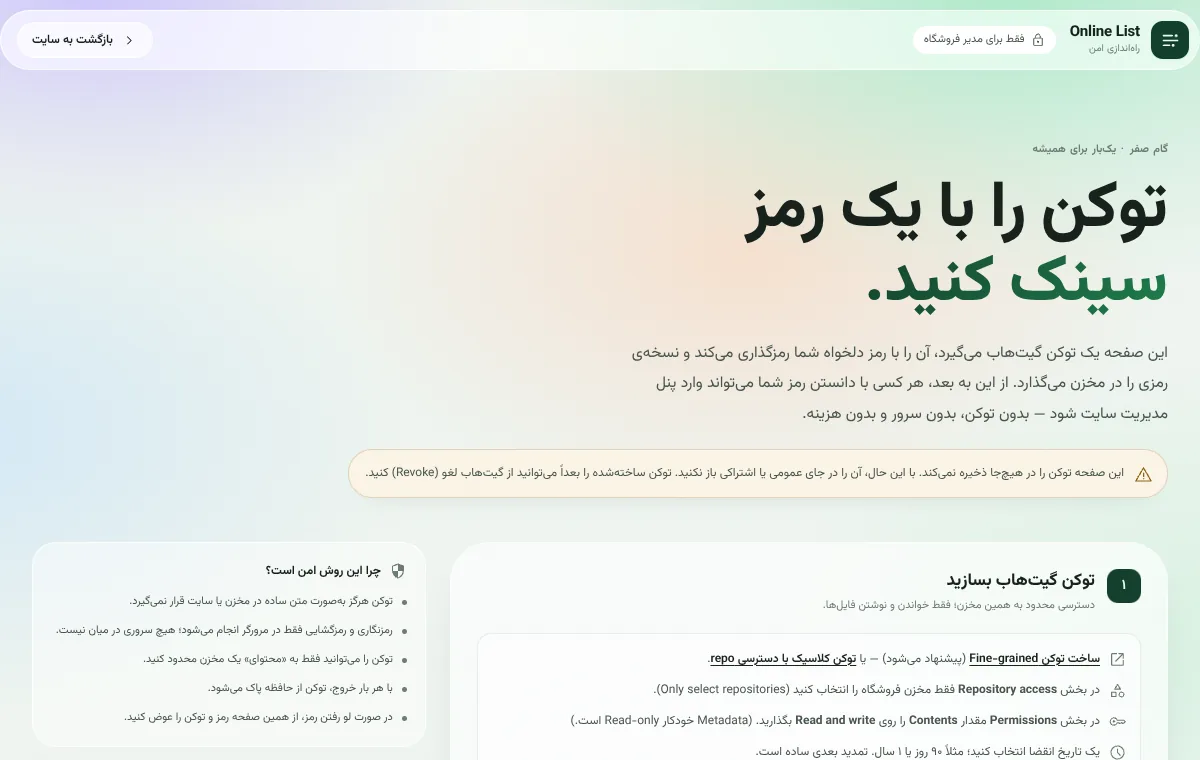
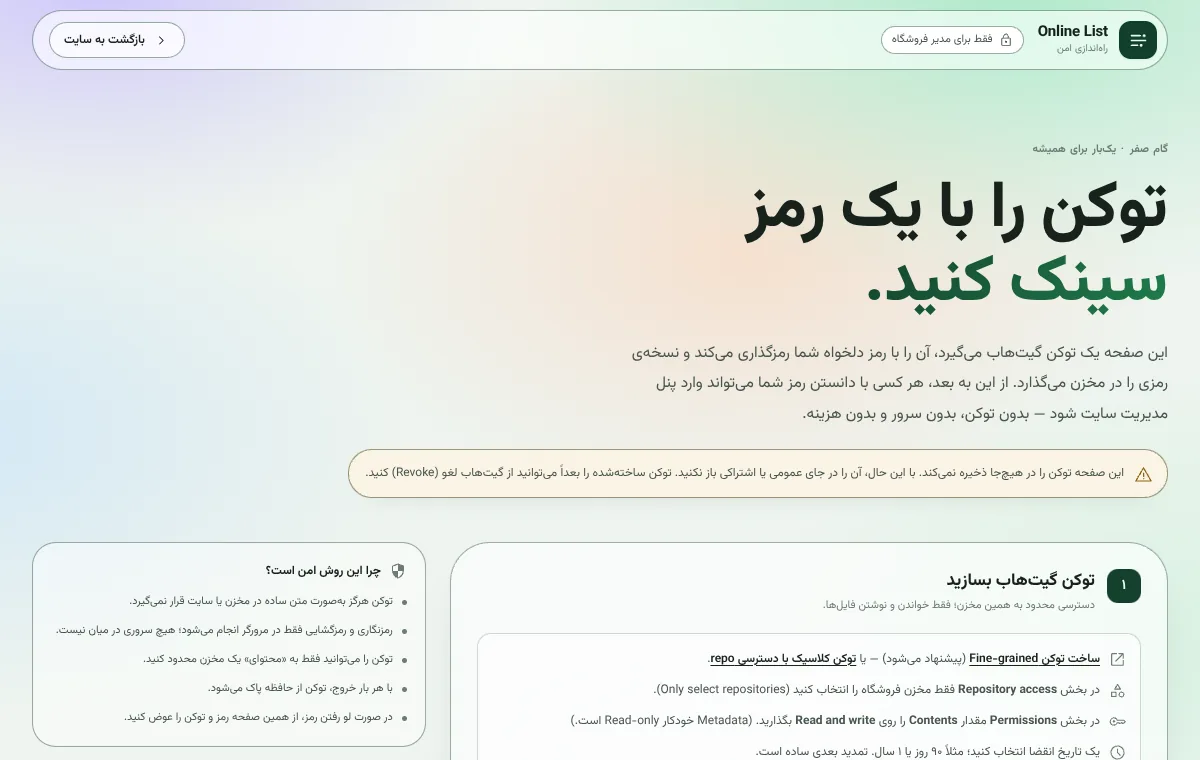
خط سبز دور همهٔ کادرها + رفع اشکالهای ظاهری
- tokens.css: رنگ خطها از سفید به سبز تغییر کرد (روشن: سبز تیره، تاریک: نعنایی)
  --outline / --outline-strong / --hairline / --glass-line / --glass-card-border
- نوار بالای شیشهای دقیقاً به اندازهٔ گاتر فاصله گرفت؛ قبلاً در ۱۲۰۰px به لبهٔ صفحه میچسبید
- نور پسزمینه به یک توکن (--page-glow) منتقل شد و نوار بالا هم همان نور را میکشد:
  دیگر کارتها از پشت نوار دیده نمیشوند و درز افقی زیر نوار حذف شد
- جستجوی هدر: راهنمای «/» دوباره جا گرفت (پدینگ سمت چپ ۷۶px)
- جستجوی پنل مدیریت هم شیشهای شد (قبلاً تنها کادر سفید اپک بود)
- نوار «اعتماد» بهخاطر استفادهٔ --glass-line بهعنوان پسزمینه سبزِ توپر شده بود؛ اصلاح شد
- ۲۰ تصویر راهنمای مدیر با خطوط جدید بازسازی شد

Changed region(s): [[0.74, 0.0, 1.0, 0.0908], [0.0, 0.0, 0.1233, 0.0908]]

diff --git a/assets/css/tokens.css b/assets/css/tokens.css
@@ -34,9 +34,9 @@
   --text-inverse: #eafaf0;
 
   /* Lines */
-  --outline: rgba(255, 255, 255, 0.76);
-  --outline-strong: rgba(255, 255, 255, 0.98);
-  --hairline: rgba(23, 33, 28, 0.08);
+  --outline: rgba(18, 63, 44, 0.42);
+  --outline-strong: rgba(18, 63, 44, 0.5);
+  --hairline: rgba(18, 63, 44, 0.2);
 
   /* Primary — deep forest ink: still serious, but alive next to the ivory */
   --primary: #123f2c;
@@ -153,9 +153,9 @@
   --text-3: #7b8c83;
   --text-inverse: #0b1a13;
 
-  --outline: rgba(255, 255, 255, 0.12);
-  --outline-strong: rgba(255, 255, 255, 0.24);
-  --hairline: rgba(255, 255, 255, 0.08);
+  --outline: rgba(159, 232, 193, 0.36);
+  --outline-strong: rgba(159, 232, 193, 0.5);
+  --hairline: rgba(159, 232, 193, 0.22);
 
   --primary: #9fe8c1;
   --on-primary: #06231a;
@@ -210,9 +210,9 @@
     --text-3: #7b8c83;
     --text-inverse: #0b1a13;
 
-    --outline: rgba(255, 255, 255, 0.12);
-    --outline-strong: rgba(255, 255, 255, 0.24);
-    --hairline: rgba(255, 255, 255, 0.08);
+    --outline: rgba(159, 232, 193, 0.36);
+    --outline-strong: rgba(159, 232, 193, 0.5);
+    --hairline: rgba(159, 232, 193, 0.22);
 
     --primary: #9fe8c1;
     --on-primary: #06231a;
@@ -265,7 +265,7 @@
   --aurora-sky: rgba(174, 217, 255, 0.72);
   --aurora-mint-2: rgba(184, 239, 207, 0.78);
 
-  --glass-line: rgba(255, 255, 255, 0.72);
+  --glass-line: rgba(18, 63, 44, 0.42);
   --glass-blur: 22px;
   --glass-shadow: 0 22px 44px -32px rgba(20, 50, 35, 0.5);
   --glass-shadow-lg: 0 40px 80px -44px rgba(20, 50, 35, 0.55);
@@ -274,7 +274,7 @@
   --glass-panel: rgba(255, 255, 255, 0.66);
   --glass-card: rgba(255, 255, 255, 0.78);
   --glass-card-hover: rgba(255, 255, 255, 0.92);
-  --glass-card-border: #ffffff;
+  --glass-card-border: rgba(18, 63, 44, 0.62);
   --glass-chip: rgba(255, 255, 255, 0.62);
   --glass-chip-hover: #ffffff;
   --glass-field: rgba(255, 255, 255, 0.72);
@@ -287,6 +287,13 @@
   --glass-gloss: rgba(255, 255, 255, 0.62);
   --page-mesh-veil: rgba(238, 244, 239, 0.34);
   --page-mesh-veil-end: rgba(238, 244, 239, 0.52);
+  --page-glow:
+    linear-gradient(180deg, transparent 0%, var(--page-mesh-veil) 30%, var(--page-mesh-veil-end) 100%),
+    radial-gradient(58% 54% at 84% 2%, var(--aurora-mint), transparent 68%),
+    radial-gradient(46% 46% at 8% 0%, var(--aurora-lilac), transparent 70%),
+    radial-gradient(48% 46% at 62% 34%, var(--aurora-peach), transparent 72%),
+    radial-gradient(52% 50% at -4% 58%, var(--aurora-sky), transparent 72%),
+    radial-gradient(56% 52% at 104% 86%, var(--aurora-mint-2), transparent 72%);
 }
 
 [data-theme="dark"] {
@@ -296,7 +303,7 @@
   --aurora-sky: rgba(44, 92, 132, 0.26);
   --aurora-mint-2: rgba(36, 108, 80, 0.3);
 
-  --glass-line: rgba(255, 255, 255, 0.1);
+  --glass-line: rgba(159, 232, 193, 0.38);
   --glass-shadow: 0 22px 44px -30px rgba(0, 0, 0, 0.8);
   --glass-shadow-lg: 0 40px 80px -40px rgba(0, 0, 0, 0.9);
 
@@ -304,7 +311,7 @@
   --glass-panel: rgba(22, 38, 30, 0.62);
   --glass-card: rgba(30, 50, 40, 0.56);
   --glass-card-hover: rgba(34, 56, 45, 0.74);
-  --glass-card-border: rgba(255, 255, 255, 0.14);
+  --glass-card-border: rgba(159, 232, 193, 0.52);
   --glass-chip: rgba(255, 255, 255, 0.07);
   --glass-chip-hover: rgba(255, 255, 255, 0.13);
   --glass-field: rgba(255, 255, 255, 0.06);
@@ -317,6 +324,12 @@
   --glass-gloss: rgba(255, 255, 255, 0.08);
   --page-mesh-veil: rgba(8, 18, 13, 0.3);
   --page-mesh-veil-end: rgba(8, 18, 13, 0.62);
+  --page-glow:
+    linear-gradient(180deg, rgba(8, 18, 13, 0.06) 0%, rgba(8, 18, 13, 0.42) 28%, rgba(8, 18, 13, 0.78) 100%),
+    radial-gradient(46% 44% at 86% -8%, rgba(46, 148, 105, 0.5), transparent 64%),
+    radial-gradient(40% 40% at 0% -12%, rgba(96, 80, 168, 0.44), transparent 66%),
+    radial-gradient(44% 42% at 100% 78%, rgba(44, 126, 94, 0.34), transparent 68%),
+    radial-gradient(40% 40% at 4% 92%, rgba(38, 96, 120, 0.28), transparent 70%);
 }
 
 @media (prefers-color-scheme: dark) {
@@ -327,7 +340,7 @@
     --aurora-sky: rgba(44, 92, 132, 0.26);
     --aurora-mint-2: rgba(36, 108, 80, 0.3);
 
-    --glass-line: rgba(255, 255, 255, 0.1);
+    --glass-line: rgba(159, 232, 193, 0.38);
     --glass-shadow: 0 22px 44px -30px rgba(0, 0, 0, 0.8);
     --glass-shadow-lg: 0 40px 80px -40px rgba(0, 0, 0, 0.9);
 
@@ -335,7 +348,7 @@
     --glass-panel: rgba(22, 38, 30, 0.62);
     --glass-card: rgba(30, 50, 40, 0.56);
     --glass-card-hover: rgba(34, 56, 45, 0.74);
-    --glass-card-border: rgba(255, 255, 255, 0.14);
+    --glass-card-border: rgba(159, 232, 193, 0.52);
     --glass-chip: rgba(255, 255, 255, 0.07);
     --glass-chip-hover: rgba(255, 255, 255, 0.13);
     --glass-field: rgba(255, 255, 255, 0.06);
@@ -348,5 +361,17 @@
     --glass-gloss: rgba(255, 255, 255, 0.08);
     --page-mesh-veil: rgba(8, 18, 13, 0.3);
     --page-mesh-veil-end: rgba(8, 18, 13, 0.62);
+    --page-glow:
+      linear-gradient(180deg, rgba(8, 18, 13, 0.06) 0%, rgba(8, 18, 13, 0.42) 28%, rgba(8, 18, 13, 0.78) 100%),
+    radial-gradient(46% 44% at 86% -8%, rgba(46, 148, 105, 0.5), transparent 64%),
+    radial-gradient(40% 40% at 0% -12%, rgba(96, 80, 168, 0.44), transparent 66%),
+    radial-gradient(44% 42% at 100% 78%, rgba(44, 126, 94, 0.34), transparent 68%),
+    radial-gradient(40% 40% at 4% 92%, rgba(38, 96, 120, 0.28), transparent 70%);
+  --page-glow:
+    linear-gradient(180deg, rgba(8, 18, 13, 0.06) 0%, rgba(8, 18, 13, 0.42) 28%, rgba(8, 18, 13, 0.78) 100%),
+    radial-gradient(46% 44% at 86% -8%, rgba(46, 148, 105, 0.5), transparent 64%),
+    radial-gradient(40% 40% at 0% -12%, rgba(96, 80, 168, 0.44), transparent 66%),
+    radial-gradient(44% 42% at 100% 78%, rgba(44, 126, 94, 0.34), transparent 68%),
+    radial-gradient(40% 40% at 4% 92%, rgba(38, 96, 120, 0.28), transparent 70%);
   }
 }

diff --git a/assets/css/glass.css b/assets/css/glass.css
@@ -14,46 +14,22 @@
 body,
 .help-page,
 .setup-page {
-  background:
-    linear-gradient(180deg, transparent 0%, var(--page-mesh-veil) 30%, var(--page-mesh-veil-end) 100%),
-    radial-gradient(58% 54% at 84% 2%, var(--aurora-mint), transparent 68%),
-    radial-gradient(46% 46% at 8% 0%, var(--aurora-lilac), transparent 70%),
-    radial-gradient(48% 46% at 62% 34%, var(--aurora-peach), transparent 72%),
-    radial-gradient(52% 50% at -4% 58%, var(--aurora-sky), transparent 72%),
-    radial-gradient(56% 52% at 104% 86%, var(--aurora-mint-2), transparent 72%),
-    var(--bg);
+  background-color: var(--bg);
+  background-image: var(--page-glow);
   background-attachment: fixed;
   background-repeat: no-repeat;
   background-size: 100% 100%;
 }
-/* Dark keeps the colour only at the corners: a foggy middle made every
-   heading fight the background. */
-@media (prefers-color-scheme: dark) {
-  :root:not([data-theme="light"]) body,
-  :root:not([data-theme="light"]) .help-page,
-  :root:not([data-theme="light"]) .setup-page {
-  background:
-    linear-gradient(180deg, rgba(8, 18, 13, 0.06) 0%, rgba(8, 18, 13, 0.42) 28%, rgba(8, 18, 13, 0.78) 100%),
-    radial-gradient(46% 44% at 86% -8%, rgba(46, 148, 105, 0.5), transparent 64%),
-    radial-gradient(40% 40% at 0% -12%, rgba(96, 80, 168, 0.44), transparent 66%),
-    radial-gradient(44% 42% at 100% 78%, rgba(44, 126, 94, 0.34), transparent 68%),
-    radial-gradient(40% 40% at 4% 92%, rgba(38, 96, 120, 0.28), transparent 70%),
-    var(--bg);
-  background-attachment: fixed;
-  background-repeat: no-repeat;
-  background-size: 100% 100%;
-  }
-}
-[data-theme="dark"] body,
-[data-theme="dark"] .help-page,
-[data-theme="dark"] .setup-page {
-  background:
-    linear-gradient(180deg, rgba(8, 18, 13, 0.06) 0%, rgba(8, 18, 13, 0.42) 28%, rgba(8, 18, 13, 0.78) 100%),
-    radial-gradient(46% 44% at 86% -8%, rgba(46, 148, 105, 0.5), transparent 64%),
-    radial-gradient(40% 40% at 0% -12%, rgba(96, 80, 168, 0.44), transparent 66%),
-    radial-gradient(44% 42% at 100% 78%, rgba(44, 126, 94, 0.34), transparent 68%),
-    radial-gradient(40% 40% at 4% 92%, rgba(38, 96, 120, 0.28), transparent 70%),
-    var(--bg);
+
+/* The bar floats, but the strip around the pill has to hide what scrolls
+   under it. Instead of a translucent veil (which ghosted the cards) the bar
+   paints the very same viewport-anchored aurora, fully opaque — so it reads
+   as one continuous page and nothing shows through. */
+.appbar,
+.help-top,
+.setup-header {
+  background-color: var(--bg);
+  background-image: var(--page-glow);
   background-attachment: fixed;
   background-repeat: no-repeat;
   background-size: 100% 100%;
@@ -89,7 +65,10 @@ body,
 .appbar {
   height: auto;
   padding-block: 12px;
-  background: transparent;
+  /* The pill is a .container itself, so its own padding sits *inside* the
+     frame: at exactly 1200px wide the frame touched both screen edges.
+     Pad the bar instead, and the pill gets the same gutter as every card. */
+  padding-inline: var(--gutter);
   border: 0;
 }
 .appbar.is-stuck { border-bottom-color: transparent; box-shadow: none; }
@@ -126,7 +105,6 @@ body,
 @media (max-width: 760px) {
   .login-btn { padding-inline: 0; width: 38px; justify-content: center; }
 }
-
 /* ── Hero ────────────────────────────────────────────────────────────── */
 .hero__eyebrow {
   border: 1px solid var(--glass-line);
@@ -173,10 +151,13 @@ body,
 .update-card__stats { border-radius: var(--r-lg); }
 
 /* ── Trust strip ─────────────────────────────────────────────────────── */
+/* .trust paints its 1px gaps with the border colour, so using --glass-line
+   here turned the whole strip into a green slab. Give the gaps their own
+   faint tint and keep the frame green. */
 .trust {
   border-radius: var(--r-2xl);
-  border: 1px solid var(--glass-line);
-  background: var(--glass-line);
+  border: 1px solid var(--glass-card-border);
+  background: color-mix(in srgb, var(--glass-line) 34%, transparent);
   box-shadow: var(--glass-shadow);
 }
 .trust__item {
@@ -231,7 +212,8 @@ body,
   border-radius: var(--r-full);
   background-color: var(--glass-field);
   border: 1px solid var(--glass-line);
-  padding-inline: 46px 26px;
+  /* start = the magnifier, end = the «/» keyboard hint (44px + 30px wide). */
+  padding-inline: 46px 76px;
 }
 .search__input:focus {
   border-color: color-mix(in srgb, var(--ok) 40%, var(--glass-line));
@@ -470,6 +452,15 @@ dialog.sheet::backdrop {
 }
 .mp-badge, .mp__seg, .mp-seg { border-radius: var(--r-full); }
 .mp__seg { border: 1px solid var(--glass-line); background: var(--glass-chip); }
+.mp__search {
+  border: 1px solid var(--glass-line);
+  background: var(--glass-field);
+}
+.mp__search:focus-within {
+  border-color: color-mix(in srgb, var(--ok) 42%, var(--glass-line));
+  background: var(--glass-field-focus);
+  box-shadow: 0 0 0 4px color-mix(in srgb, var(--ok) 15%, transparent);
+}
 .mp__seg-btn { border-radius: var(--r-full); }
 .mp__seg-btn.is-active {
   background: linear-gradient(160deg, color-mix(in srgb, var(--primary) 88%, #2f7a54), var(--primary));
@@ -512,8 +503,10 @@ dialog.sheet::backdrop {
 
 /* ── Help & setup pages ──────────────────────────────────────────────── */
 .help-top, .setup-header {
+  position: relative;
+  z-index: 40;
   padding-block: 10px;
-  background: transparent;
+  padding-inline: var(--gutter);
   border-bottom: 0;
   box-shadow: none;
 }
